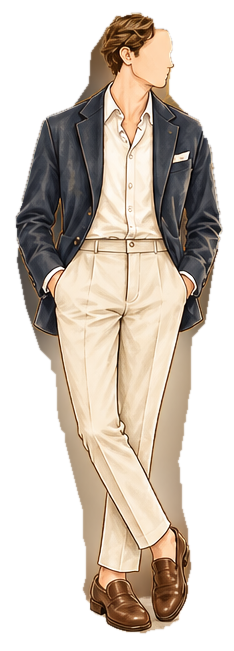
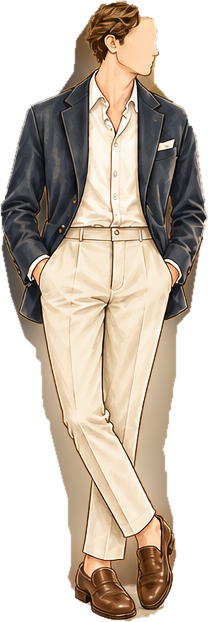
Add files via upload

diff --git a/index.html b/index.html
@@ -4140,6 +4140,43 @@ footer{padding-top:25px;padding-bottom:29px}
  .dc-copy li{font-size:19px}
  .dc-swatch{font-size:12px}
 }
+
+/* Dress Code V5 — compact mobile-only editorial grid */
+@media (max-width: 820px) {
+ .dresscode{padding-top:29px!important;padding-bottom:29px!important}
+ .dresscode .section-kicker{margin-bottom:4px!important}
+ .dresscode .section-title{margin-bottom:0!important}
+ .dc-ornament{margin:0 0 13px!important;font-size:22px!important}
+ .dresscode .dresscode-refined{width:100%!important;max-width:560px!important}
+ .dc-looks{display:grid!important;grid-template-columns:repeat(2,minmax(0,1fr))!important;gap:13px!important;max-width:none!important;width:100%!important;align-items:start!important}
+ .dc-look{display:flex!important;flex-direction:column!important;align-items:center!important;width:100%!important;min-width:0!important;gap:0!important;padding:0!important;border:0!important}
+ .dc-look:last-child{border:0!important}
+ .dc-art{width:100%!important;height:182px!important;min-height:0!important;display:flex!important;align-items:end!important;justify-content:center!important;overflow:visible!important}
+ .dc-figure{width:auto!important;height:180px!important;max-height:180px!important;max-width:100%!important;object-fit:contain!important;object-position:bottom center!important;filter:none!important}
+ .dc-copy{width:100%!important;max-width:none!important;min-width:0!important;margin:8px 0 0!important;padding:0 2px!important;text-align:left!important}
+ .dc-copy h3{text-align:center!important;font-size:clamp(19px,5vw,25px)!important;letter-spacing:.045em!important;margin:0 0 12px!important;line-height:1.1!important}
+ .dc-copy h3:after{margin:7px auto 0!important;width:26px!important}
+ .dc-copy ul{display:grid!important;gap:7px!important;list-style:none!important;padding:0!important;margin:0!important}
+ .dc-copy li{font-size:clamp(14px,3.65vw,18px)!important;line-height:1.18!important;padding:0 0 0 12px!important;margin:0!important;overflow-wrap:normal!important;hyphens:none!important}
+ .dc-copy li:before{left:0!important;top:4px!important;font-size:6px!important}
+ .dc-advice{display:grid!important;grid-template-columns:1fr!important;gap:11px!important;margin:17px auto 16px!important;padding:13px 0!important;max-width:none!important}
+ .dc-advice p{font-size:clamp(14px,3.8vw,17px)!important;line-height:1.25!important;gap:9px!important}
+ .dc-advice-icon{font-size:20px!important;flex-basis:21px!important}
+ .dc-advice strong{font-size:12px!important;margin-bottom:2px!important}
+ .dc-reserved h3{font-size:clamp(20px,5.3vw,25px)!important}
+ .dc-reserved>p{font-size:clamp(14px,3.7vw,17px)!important}
+ .dc-swatches{margin:11px auto 5px!important;gap:5px!important}
+ .dc-swatch{font-size:clamp(11px,3.2vw,14px)!important;gap:6px!important}
+ .dc-color{width:clamp(43px,12vw,60px)!important}
+ .dc-reserved .dc-fineprint{font-size:12px!important;margin-top:9px!important}
+}
+@media (max-width: 350px) {
+ .dc-looks{gap:8px!important}
+ .dc-art{height:156px!important}
+ .dc-figure{height:154px!important;max-height:154px!important}
+ .dc-copy li{font-size:13px!important;padding-left:10px!important}
+}
+
 </style>
 <style id="v5-png-storybook-css">
 /* V5 — PNG folio storybook. Main invitation intentionally untouched. */
